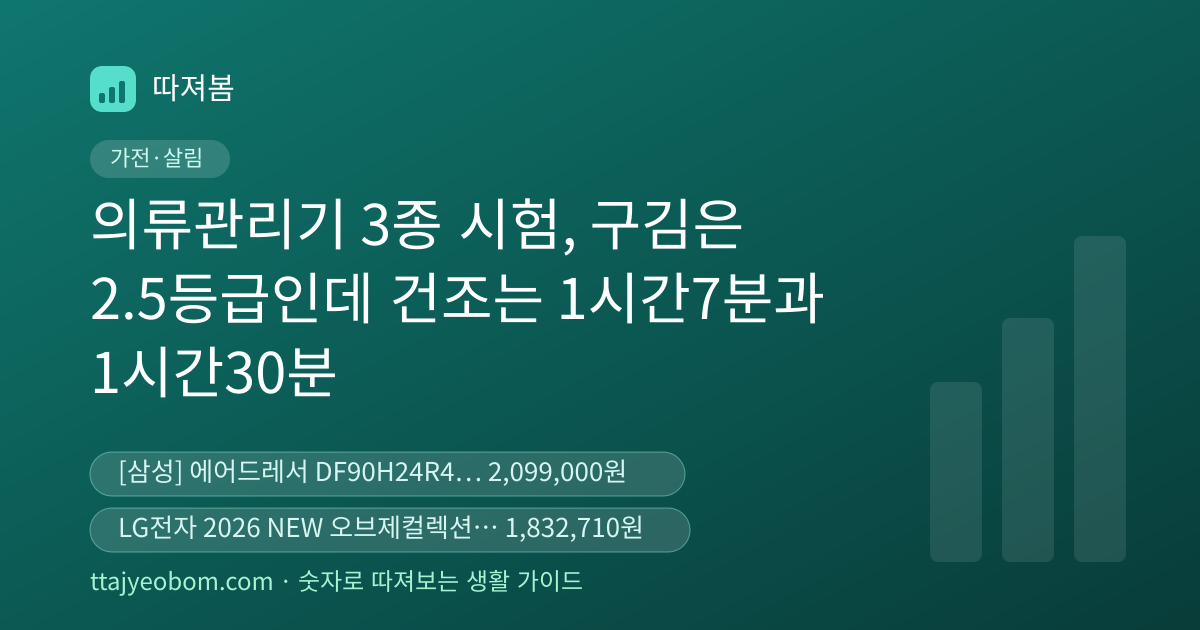
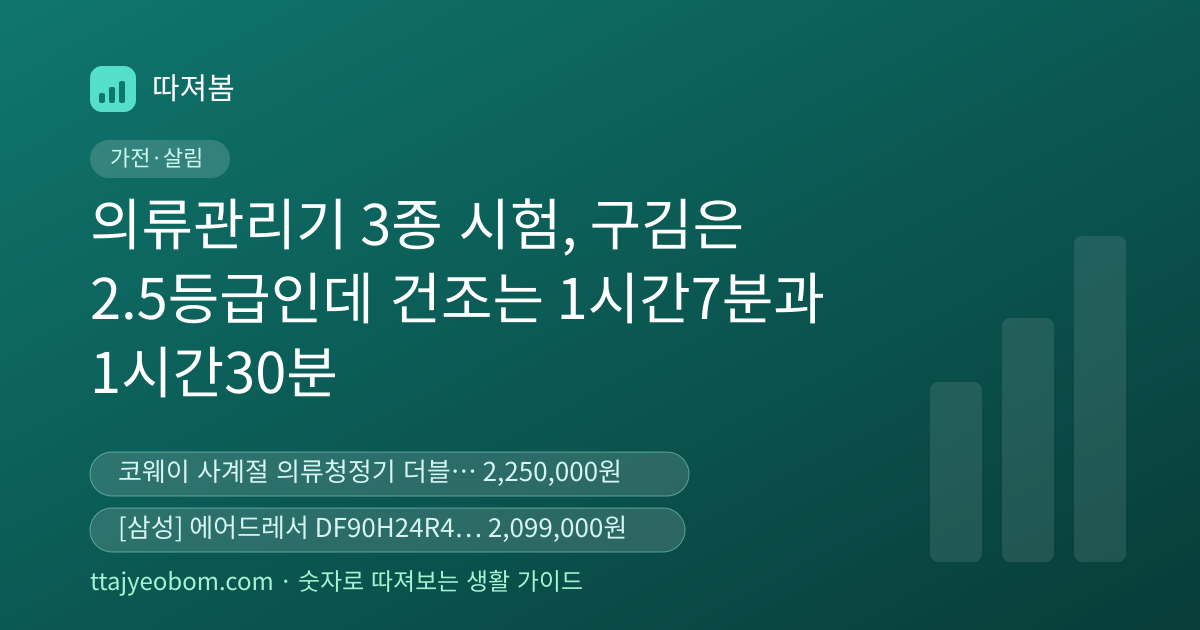
fix: include Coway FAD-02S Coupang listing at 2,250,000 won in 100th clothing care machine guide

Changed region(s): [[0.0925, 0.8143, 0.5858, 0.8746], [0.0925, 0.7238, 0.5242, 0.7841], [0.555, 0.7238, 0.5858, 0.7841]]

diff --git a/src/lib/affiliate.ts b/src/lib/affiliate.ts
@@ -2736,7 +2736,7 @@ AFFILIATE_RANKING_MAP['vacuum-sealer-33900-vs-79000-kimjang-bag-cost-guide'] = {
   };
 
 AFFILIATE_RANKING_MAP['clothing-care-machine-3-models-wrinkle-drying-dehumidification-cost-guide'] = {
-    sectionTitle: '의류관리기 2종 (삼성 에어드레서 209만9,000원 · LG 스타일러+스티머 183만2,710원)',
+    sectionTitle: '의류관리기 3종 (삼성 209만9,000원 · LG 183만2,710원 · 코웨이 225만원)',
     sectionSubtitle: '2026-11-21 쿠팡 상품 페이지 금액·상품평 기준(카드 할인·쿠폰은 판매자 사정에 따라 변동)',
     products: [
       {
@@ -2754,6 +2754,14 @@ AFFILIATE_RANKING_MAP['clothing-care-machine-3-models-wrinkle-drying-dehumidific
         specSummary: '확인일 기준 정가 2,440,000원에서 와우쿠폰과 하나카드 결제 조건으로 24퍼센트 내린 1,832,710원이고 무료배송·무료설치, 11월 23일부터 12월 22일 사이 설치일을 고를 수 있다. 판매자는 쿠팡이고 상품평은 136건에 평점 5.0이며, 94퍼센트가 최고 평가다. 시험에 쓰인 SC5MSR82S와 같은 모델이고 스티머가 함께 온다. 표준 코스 31분으로 가장 짧고 핸드스티머로 셔츠 한 벌을 30초 안에 다려 4.0등급 이상을 냈다. 다만 최대용량 건조가 1시간 10분으로 삼성보다 3분 길고, 자동건조 작동시간 편차(1시간 이상) 개선 권고를 받아 ThinQ 업데이트 대상인지 확인할 필요가 있다. KC 인증번호 HM07125-23174P, 크기 600 곱하기 1965 곱하기 620밀리미터다',
         tag: '1,832,710원 · 상품평 136건',
         link: 'https://link.coupang.com/re/AFFSDP?lptag=AF6593875&pageKey=9349343662&itemId=27734782692&vendorItemId=94696008107',
+      },
+      {
+        rank: 3,
+        rankBadge: '소음·공기청정 3위 🥉',
+        productName: '코웨이 사계절 의류청정기 더블케어 FAD-02S, 무료방문설치',
+        specSummary: '확인일 기준 2,250,000원에 무료배송이고 주문 후 3~5일 안에 전화·문자로 배송일정을 안내받는다. 판매자는 주식회사 진광고(평가 98%, 61건)이고 업체직송, 교환·반품 왕복비는 0원이며 이 판매자 상품평은 아직 0건이다. 시험에 쓰인 FAD-02S와 같은 모델로 3벌용이다. 표준 코스 평균 소음이 44데시벨 이하로 세 제품 가운데 가장 조용하고, 공기청정 기능(표준 사용면적 16.6제곱미터)은 이 제품에만 있다. 대신 최대용량 건조가 1시간 30분으로 가장 길고, 최대용량 건조 전력량은 441와트시로 가장 적다. KC 인증번호는 HH07041-18105E다',
+        tag: '2,250,000원 · 상품평 0건',
+        link: 'https://link.coupang.com/re/AFFSDP?lptag=AF6593875&pageKey=9200590036&itemId=27165042672&vendorItemId=94533245926',
       },
     ],
   };

diff --git a/src/content/posts/clothing-care-machine-3-models-wrinkle-drying-dehumidification-cost-guide.md b/src/content/posts/clothing-care-machine-3-models-wrinkle-drying-dehumidification-cost-guide.md
@@ -29,7 +29,7 @@ summary:
   - "건조는 갈렸다. 최대용량 기준 삼성 1시간 7분, LG 1시간 10분, 코웨이 1시간 30분이고, 셔츠 한 벌이면 삼성 39분, LG 54분, 코웨이 1시간 30분이다."
   - "탈취와 살균은 셋 다 99% 이상이었지만 제습량은 삼성 937mL, LG 626mL, 코웨이 567mL로 1.65배 차이였고, 소음은 코웨이 44dB 이하, 삼성과 LG 48dB 이하로 갈렸다."
   - "전기요금은 연 144회 기준 코웨이 7,600원, LG 7,900원, 삼성 9,100원으로 5년을 써도 차이는 7,500원이다. 본체 값 차이에 비하면 전기요금은 결정 요인이 아니다."
-  - "2026년 11월 21일 쿠팡에서 삼성 DF90H24R4D 2,099,000원, LG SC5MSR82S 스티머 세트 1,832,710원을 확인했다. 시험 구입가보다 각각 30만 원, 52만 7,290원 낮다."
+  - "2026년 11월 21일 쿠팡에서 삼성 DF90H24R4D 2,099,000원, LG SC5MSR82S 스티머 세트 1,832,710원, 코웨이 FAD-02S 2,250,000원을 확인했다. 시험 구입가보다 삼성은 30만 원, LG 세트는 52만 7,290원 낮고 코웨이는 같다."
 volatility: medium
 ymyl: low
 reviewBy: 2027-02-21
@@ -71,6 +71,12 @@ sources:
     type: primary
     accessed: 2026-11-21
     note: "2026년 11월 21일 실측. 정가 2,440,000원, 와우쿠폰·하나카드가 1,832,710원, 무료배송·무료설치, 11월 23일~12월 22일 설치일 지정, 상품평 136건, KC HM07125-23174P, 크기 600×1965×620mm."
+  - title: "코웨이 사계절 의류청정기 더블케어 FAD-02S 무료방문설치"
+    url: "https://www.coupang.com/vp/products/9200590036?itemId=27165042672&vendorItemId=94533245926"
+    publisher: "쿠팡"
+    type: primary
+    accessed: 2026-11-21
+    note: "2026년 11월 21일 실측. 2,250,000원, 무료배송, 3~5일 후 배송일정 안내, 판매자 주식회사 진광고(평가 98%, 61건), 업체직송, 교환·반품 왕복 0원, 상품평 0건, KC HH07041-18105E."
 generation:
   method: manual
 author: editor
@@ -160,15 +166,16 @@ author: editor
 
 ## 2026년 11월 21일 쿠팡에서 확인한 가격
 
-시험에 쓰인 모델 가운데 지금 쿠팡에서 같은 모델명으로 파는 제품은 삼성과 LG 두 가지다. 코웨이 FAD-02S는 일반 판매 페이지를 찾지 못했다. 아래 가격은 확인 시점 화면 값이고, 카드 조건과 판매자 재고에 따라 달라진다.
+시험에 쓰인 세 모델 모두 지금 쿠팡에서 같은 모델명으로 판매 중이다. 아래 가격은 확인 시점 화면 값이고, 카드 조건과 판매자 재고에 따라 달라진다.
 
 | 제품 | 쿠팡 확인가 | 정가와 할인 | 배송·설치 | 상품평 |
 | --- | --- | --- | --- | --- |
 | 삼성전자 DF90H24R4D | 2,099,000원 | 2,500,000원에서 16% | 무료배송, 3~5일 후 일정 안내 | 0건(해당 판매자) |
 | LG전자 SC5MSR82S+스티머 세트 | 1,832,710원 | 2,440,000원에서 24%, 와우쿠폰·하나카드 조건 | 무료배송·무료설치, 11월 23일~12월 22일 설치일 선택 | 136건 5.0점 |
 | LG전자 SC5MSR82S 단품 | 2,349,000원 | 2,590,000원에서 9% | 무료배송 | 505건 5.0점 |
+| 코웨이 FAD-02S | 2,250,000원 | 할인 없음 | 무료배송, 3~5일 후 일정 안내 | 0건(해당 판매자) |
 
-시험 구입가와 비교하면 삼성은 300,000원(12.5%) 내렸고, LG는 스티머 세트 구성이 527,290원(22.3%) 내렸다. 같은 모델 단품은 11,000원(0.5%) 내리는 데 그쳤다. 같은 모델이라도 판매자와 구성에 따라 값이 이렇게 벌어지므로, 결제 전에 모델명과 구성품을 확인해야 한다. 삼성 상품은 판매자가 제이엘커머스이고 배송은 삼성직배송이며, 단순변심 반품 시 왕복 20,000원이 붙는다. LG 세트는 판매자가 쿠팡이고 로켓설치로 들어오며, KC 인증번호는 HM07125-23174P, 크기는 폭 600mm, 높이 1965mm, 깊이 620mm다.
+시험 구입가와 비교하면 삼성은 300,000원(12.5%) 내렸고, LG는 스티머 세트 구성이 527,290원(22.3%) 내렸다. 같은 모델 단품은 11,000원(0.5%) 내리는 데 그쳤고, 코웨이는 시험 구입가와 같은 2,250,000원이다. 같은 모델이라도 판매자와 구성에 따라 값이 이렇게 벌어지므로, 결제 전에 모델명과 구성품을 확인해야 한다. 삼성 상품은 판매자가 제이엘커머스이고 배송은 삼성직배송이며, 단순변심 반품 시 왕복 20,000원이 붙는다. LG 세트는 판매자가 쿠팡이고 로켓설치로 들어오며, KC 인증번호는 HM07125-23174P, 크기는 폭 600mm, 높이 1965mm, 깊이 620mm다. 코웨이 상품은 판매자가 주식회사 진광고이고 업체직송으로 오며, KC 인증번호는 HH07041-18105E, 교환·반품 왕복비는 0원이다.
 
 ## 의류관리기 추천, 우리 집에 맞는 용량과 자리
 
